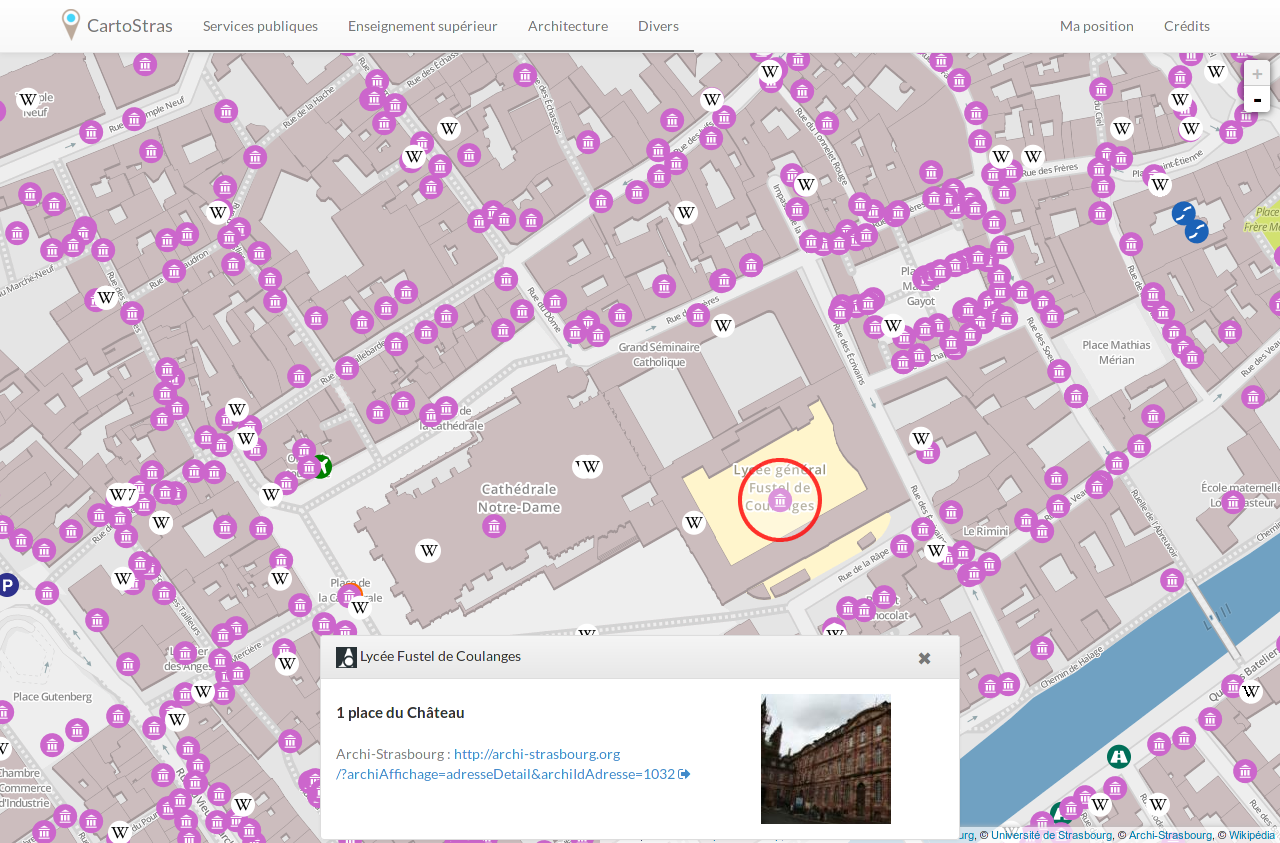
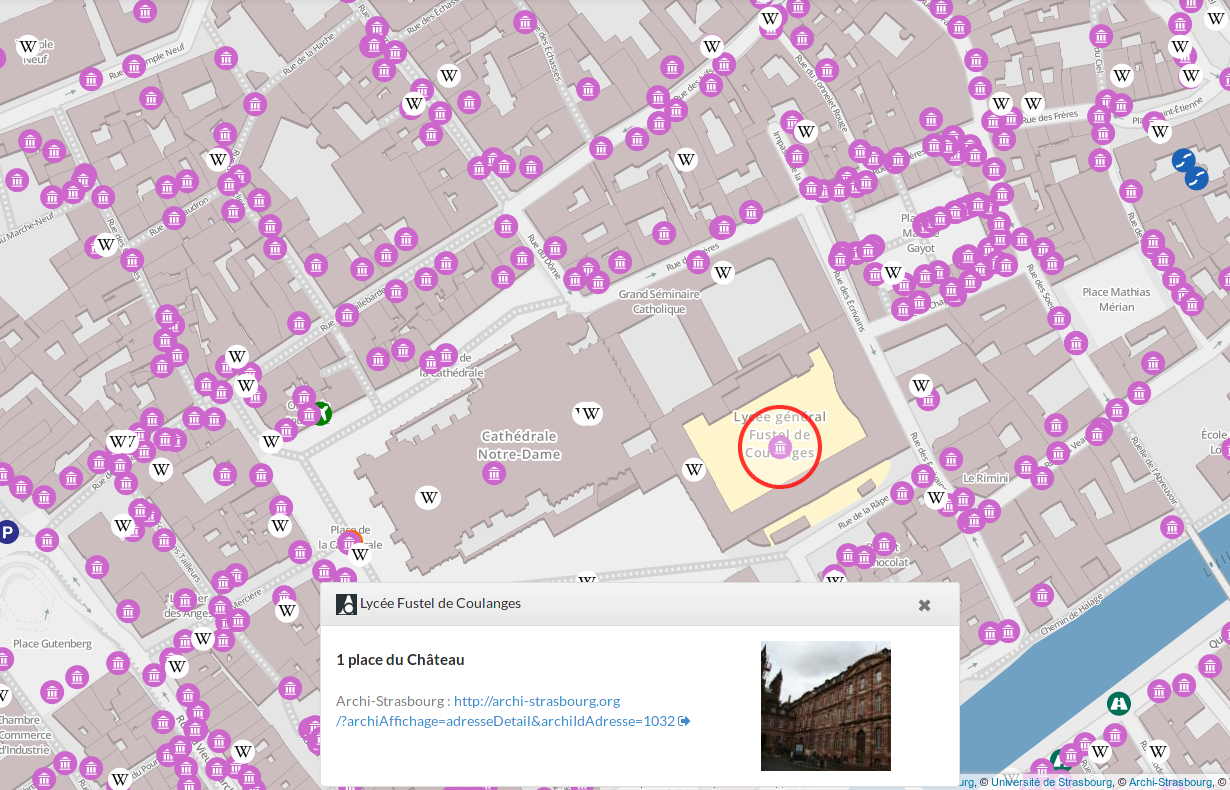
Parallax

diff --git a/style.css b/style.css
@@ -8,6 +8,9 @@ header {
     background-repeat: repeat-x;
     box-shadow: 0 1px 0 rgba(255, 255, 255, 0.15) inset, 0 1px 5px rgba(0, 0, 0, 0.075);
     border-bottom: thin solid #E7E7E7;
+    position:fixed;
+    z-index:20;
+    width:100%;
 }
 
 h1 {
@@ -57,6 +60,7 @@ header nav ul li a:hover {
     background-size:cover;
     background-position:center;
     position:relative;
+    background-attachment: fixed;
 }
 
 .slogan {
